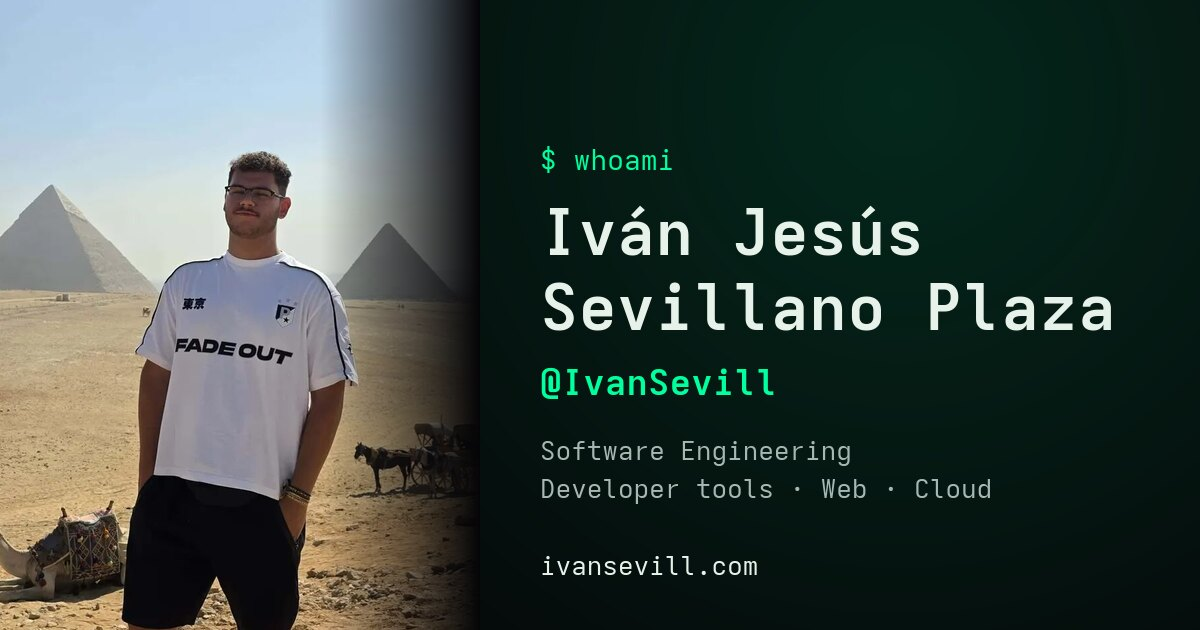
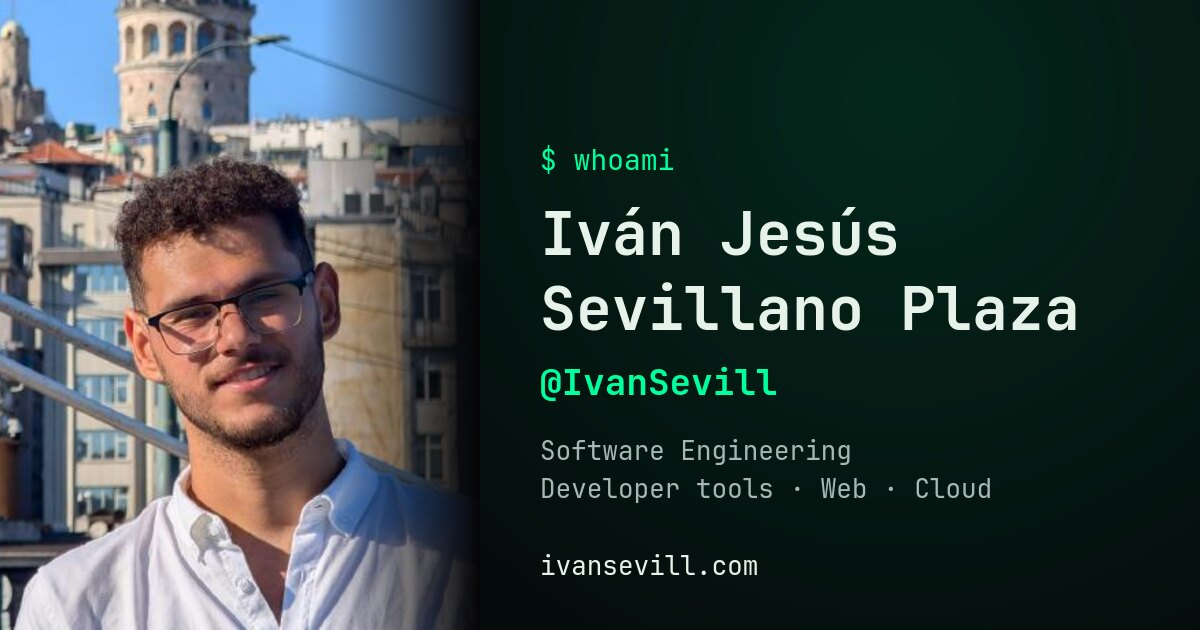
perf(images): serve project screenshots as lossless WebP
Convert the five PNG screenshots to lossless WebP (277 KB to 112 KB) and
refresh the committed social card fallback from the current GitHub avatar.

diff --git a/src/data/projects.js b/src/data/projects.js
@@ -25,7 +25,7 @@ export const featuredProjects = [
       architectureImage: '/images/projects/kaiprompt/architecture.svg',
       media: [
         {
-          src: '/images/projects/kaiprompt/kaiprompt-tui.png',
+          src: '/images/projects/kaiprompt/kaiprompt-tui.webp',
           width: 934,
           height: 431,
           kind: 'terminal',
@@ -145,7 +145,7 @@ export const featuredProjects = [
       architectureImage: '/images/projects/gymhub/architecture.svg',
       media: [
         {
-          src: '/images/projects/gymhub/gymhub-dashboard.png',
+          src: '/images/projects/gymhub/gymhub-dashboard.webp',
           width: 1107,
           height: 631,
           kind: 'screenshot',
@@ -352,7 +352,7 @@ export const featuredProjects = [
       architectureImage: '/images/projects/quota-watch/architecture.svg',
       media: [
         {
-          src: '/images/projects/quota-watch/quota-watch-tui.png',
+          src: '/images/projects/quota-watch/quota-watch-tui.webp',
           width: 430,
           height: 238,
           kind: 'terminal',
@@ -470,7 +470,7 @@ export const featuredProjects = [
       architectureImage: '/images/projects/aiss-miner/architecture.svg',
       media: [
         {
-          src: '/images/projects/aiss-miner/aiss-miner-swagger.png',
+          src: '/images/projects/aiss-miner/aiss-miner-swagger.webp',
           width: 1293,
           height: 551,
           kind: 'screenshot',
@@ -484,7 +484,7 @@ export const featuredProjects = [
           },
         },
         {
-          src: '/images/projects/aiss-miner/aiss-miner-graphiql.png',
+          src: '/images/projects/aiss-miner/aiss-miner-graphiql.webp',
           width: 700,
           height: 501,
           kind: 'screenshot',
